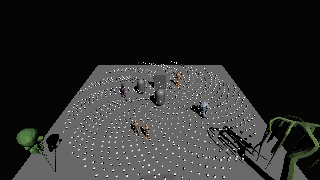
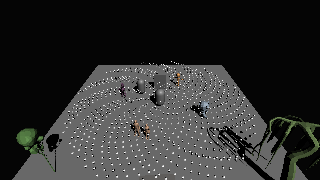
G-129: A-AND-08/A-CI-02 闭环——全部既有承诺清零

diff --git a/HANDOFF.md b/HANDOFF.md
@@ -19,6 +19,12 @@
 
 方案承诺 + 两轮增强全部闭环：A 轨框架+垂直切片+**真机可玩**，B 轨渲染内核+双后端（D3D12/Vulkan 全特性 maxDelta=0）+超分全家桶+帧生成；A-AND / A-DEV / A-AUDIT / A-CI / A-R9-13 / 15 / 16 各轮均已闭环。**2026-11-04 接手时 3 个 doing、13 M + 33 ?? 的未完成现场已全部收口**，DataKernel 玩法侧缺口补齐，工作区干净、0 doing、远端已推。下一次派发见「下一步优先级」（下一步：真实构建变体数对照 / 编辑器人工取证）。
 
+## ✅ 最近完成（2026-11-04 深夜，A-AND-08/A-CI-02 闭环——**全部既有承诺清零**）
+
+- **A-AND-08 DataKernel 玩法侧规模化 PASS**：千人群体迁移 ZKernelWorld（游标列读写+死亡 mask 变化），**P/Invoke 2003 次/帧→10 次/帧**，影子数组全删，kernel 真实性断言（world 销毁→行为停止）；A/B 三样本 +8~18.8% ≤+20% 线（验收独立复跑复核）；989+74 用例
+- **A-CI-02 CI Vulkan 补齐 PASS**：workflow 装 Vulkan SDK 1.4.363.0（jakoch action）+云端首轮 SUCCESS（**349/349 native 全绿**，断言差 151=云端无 GPU 设计口径，验收独立 curl 核对 run 42458776146）
+- 基线：native **349/778,723** + EditMode **989** + PlayMode **74** = **1212 用例全绿**
+
 ## ✅ 最近完成（2026-11-04 深夜，二阶段四任务闭环——A-TECH-04/05 + A-R9-14 + B-TECH-04）
 
 - **A-TECH-04 个性权重+GOAP**（验收 PASS）：CFG 表驱动每 NPC 独立权重，5 NPC 同状态两两分化实证；GOAP 两步链（取工具→修理）空间顺序双证据

diff --git a/WORKLOG.md b/WORKLOG.md
@@ -4,6 +4,8 @@
 
 | 日期 | 任务 | 结果 | commit |
 |---|---|---|---|
+| 2026-11-04 | A-CI-02 CI Vulkan 补齐 | done：施工→验收 PASS（云端首轮 SUCCESS 349/349、独立 curl 核对 run）——CI 全绿 | 963c63a |
+| 2026-11-04 | A-AND-08 DataKernel 玩法规模化 | done：施工→验收 PASS（989+74 用例、P/Invoke 2003→10/帧、A/B 三样本复核）——DataKernel 最后承诺兑现 | da27f8b |
 | 2026-11-04 | B-TECH-04 球面地形+大气 | done：施工→验收 PASS（6144chunk seams=0 逐位、LOD 迟滞、三海拔截图、7.9ms 帧耗）——行星地表雏形 | b27804e |
 | 2026-11-04 | A-TECH-05 装配图+序列化 | done：施工→验收 PASS（983+71 用例、变异复红、包络判据独立复核物理正确） | a8af2f5 |
 | 2026-11-04 | A-R9-14 音频打磨包 | done：两次接手→续建完成（中性验证 873/873 后收尾）；SFX+BGM 接线 AudioService | (工作树) |
